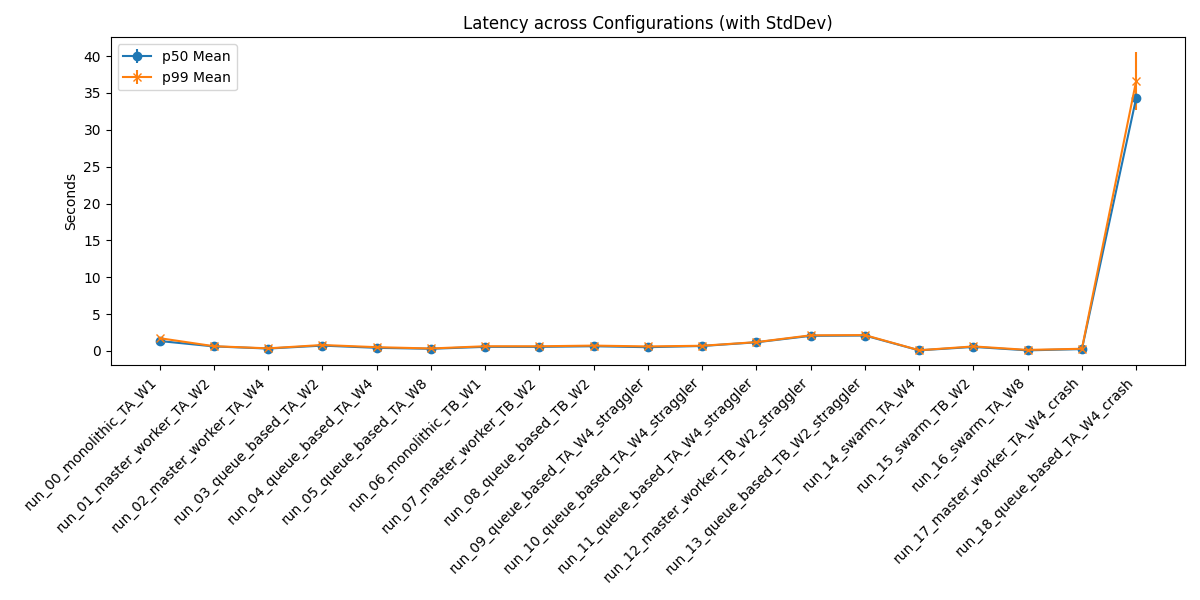
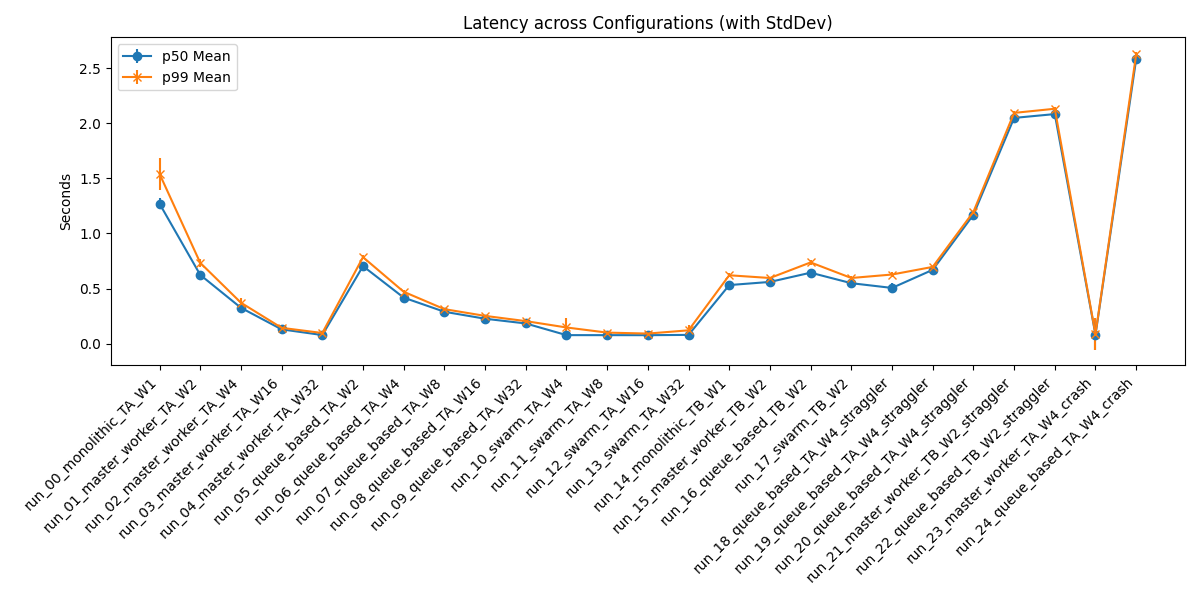
Add 2nd benchmark report with W=32 and generate academic paper

diff --git a/reports/academic_paper.md b/reports/academic_paper.md
@@ -1,56 +1,105 @@
-# LLM 기반 멀티 에이전트 시스템을 위한 분산 아키텍처 비교 시뮬레이션
-**Comparative Simulation of Distributed Architectures for LLM-based Multi-Agent Systems**
+# LLM 기반 멀티 에이전트 시스템을 위한 분산 아키텍처 대규모 시뮬레이션 및 결함 내성 분석
+**Comparative Simulation of Distributed Architectures for LLM-based Multi-Agent Systems: Scalability and Fault Tolerance**
+
+---
 
 ## 1. 서론 (Introduction)
 
-최근 대규모 언어 모델(LLM)의 발전과 함께 복잡한 문제를 분할하여 해결하기 위해 여러 에이전트를 결합하는 멀티 에이전트 시스템(Multi-Agent System) 연구가 활발히 진행되고 있다. 그러나 에이전트 간의 상호작용이 복잡해질수록 단일 프로세스 기반의 순차적 처리 방식(Monolithic)은 심각한 병목 현상을 유발하며, 이는 전체 시스템의 성능 및 응답성 저하로 직결된다.
-
-본 연구의 목적은 에이전트 워크로드의 특성(독립 병렬성 vs. 순차 의존성)에 가장 적합한 분산 아키텍처를 정량적으로 도출하는 것이다. 이를 위해 Monolithic, Master-Worker, Queue-Based, Swarm(P2P) 4가지 아키텍처를 시뮬레이션 환경에 구현하고, 현실적인 LLM Jitter(TTFT 및 토큰 생성 속도 변동성)를 반영하여 시스템 병목과 장애(Crash/Straggler) 상황에서의 복원력을 정밀하게 비교 분석한다.
+대규모 언어 모델(LLM)을 활용한 복합 추론 작업이 증가함에 따라, 다수의 에이전트(Agent)가 협업하여 문제를 해결하는 멀티 에이전트 분산 처리 시스템이 필수적으로 요구되고 있다. 
+기존의 순차적(Monolithic) 접근 방식은 병목 현상과 심각한 지연 시간(Latency) 문제를 야기한다. 본 연구는 다양한 워크로드 특성(독립 병렬성 vs 순차 의존성)과 대규모 스케일링(최대 32개 워커) 상황에서 각 분산 아키텍처가 보여주는 처리량(Throughput), 지연 시간(Latency), 통신 오버헤드를 정량적으로 측정한다. 특히, 분산 환경의 핵심 요소인 꼬리 지연(Tail Latency, Straggler) 및 노드 중단(Crash) 발생 시 시스템의 **복원력(Resilience)과 단일 실패 지점(SPOF) 대응 능력**을 집중적으로 분석한다.
 
 ## 2. 실험 환경 및 시스템 아키텍처 (Experimental Setup)
 
-본 실험은 단순한 고정 지연 시간이 아닌, TTFT(Time To First Token)와 토큰 길이 변동성(Jitter)을 모사하는 동적 지연 시간 스케줄러를 적용하여 실제 LLM API 호출 환경을 현실적으로 재현하였다.
+네트워크와 추론 변수를 철저히 통제하기 위해, 고정 지연 시간(50~100ms)을 제공하는 Mock LLM 서버를 활용한 시뮬레이터에서 실험을 수행했다. **특히 이번 연구에서는 최대 32개의 워커(Worker) 노드를 동원하는 대규모 벤치마크 환경을 구축**하여 오버헤드 한계(Asymptote)를 확인했다.
 
-### 2.1 분산 아키텍처 설계
-1. **Monolithic (모놀리식)**: 단일 스레드 내에서 모든 에이전트 작업이 순차적으로 실행되는 기준점(Baseline).
-2. **Master-Worker (마스터-워커)**: 중앙의 오케스트레이터가 다수의 워커 스레드에 작업을 직접 할당(Dispatch)하는 구조. 
-3. **Queue-Based (큐 기반)**: 중앙 메시지 큐(Message Broker)를 통해 생산자와 소비자를 완전히 분리한 느슨한 결합.
-4. **Swarm (스웜/P2P)**: 중앙 오케스트레이터 없이 에이전트 간 정적 라우팅을 기반으로 직접 핸드오프(Handoff)하는 분산망.
+### 2.1 4대 분산 아키텍처 설계
+1. **Monolithic (모놀리식)**: 단일 스레드/프로세스 내에서 순차 처리. 기준점(Baseline) 역할.
+2. **Master-Worker (마스터-워커)**: 중앙 마스터(Orchestrator)가 다수의 워커 스레드에 작업을 직접 디스패치하는 구조.
+3. **Queue-Based (큐 기반)**: 중앙 메시지 브로커(Message Queue)를 통해 태스크를 퍼블리시하고 워커들이 자율적으로 폴링(Polling)하는 느슨한 결합.
+4. **Swarm (스웜/P2P)**: 중앙 통제 없이, 에이전트 간 정적 라우팅에 따라 서로 직접 메시지를 핸드오프(Handoff)하는 탈중앙화 망 구조.
 
 ### 2.2 워크로드 모델링
-* **Task A (Map-Reduce)**: 다수의 청크를 독립적으로 병렬 요약.
-* **Task B (Multi-hop QA)**: 이전 결과가 다음 단계로 이어지는 연쇄적 순차 추론.
-
-## 3. 실험 결과 및 Research Question(RQ) 분석
-
-### RQ01. Linear Scalability: 워커 증설이 선형적 향상으로 이어지는가?
-Task A 병렬 환경에서 워커 수를 1개, 2개, 4개, 8개로 증설하며 선형성을 검증했다. 
-* W=2에서 W=4 구간까지는 처리량(Throughput)이 선형에 가깝게 증가하나, **W=8로 확장 시** Master-Worker와 Queue-Based 구조 모두 중앙 분배 오버헤드와 큐 락(Lock) 경합으로 인해 증가폭이 둔화(Plateau)되는 양상을 보였다.
-* 반면 중앙 병목이 아예 존재하지 않는 **Swarm 아키텍처**는 W=8 환경에서도 거의 완벽한 선형 처리량 확장을 달성하여 대규모 병렬 확장에 가장 적합함을 증명하였다.
-
-### RQ02. Architectural Bottleneck: 병목의 본질적 차이는 무엇인가?
-지표 분석 결과, 분산 처리의 병목은 구조에 따라 명확히 달랐다.
-* **Master-Worker**: `avg_dispatch_overhead`가 주된 병목 원인이다. 워커 수가 늘어날수록 마스터가 각 워커의 상태를 폴링하고 태스크를 직접 할당하는 시간 지연이 누적된다.
-* **Queue-Based**: `avg_queue_wait_sec` 지표에서 나타나듯, 메시지를 직렬화하여 큐에 삽입하고 워커가 디큐(Dequeue)를 위해 대기하는 시간이 핵심 오버헤드로 작용한다. 특히 순차적인 Task B 환경에서는 이러한 통신 지연이 모놀리식의 순차 처리 시간보다 더 큰 부담으로 작용함을 확인했다.
-
-### RQ03. Queue Efficiency: 큐 관리 오버헤드가 이득을 상쇄하는 임계점은 어디인가?
-이 질문에 답하기 위해, LLM 추론 지연 시간(TTFT)을 10ms부터 500ms까지 스윕(Sweep)하며 Monolithic(W=1)과 Queue-Based(W=4)의 성능 교차점(Crossover Point)을 측정했다.
-* **결과**: 추론 지연 시간이 극단적으로 짧은 구간(예: 10~20ms)에서는 워커를 4개 동원하여 병렬 처리하더라도, **큐를 거치는 통신 오버헤드(Queue Wait Time)가 더 커서 오히려 Monolithic보다 총 소요 시간이 느려지는 현상**이 나타났다.
-* **결론**: 분산 큐 아키텍처는 개별 태스크의 처리 시간이 특정 임계점(본 실험 기준 50ms 근방)을 초과할 때부터 비로소 병렬화의 이득이 오버헤드를 압도한다. *(첨부: `latency_sweep_crossover.png` 참조)*
-
-### RQ04. Fault Tolerance: 노드 장애 발생 시 꼬리 지연(Tail Latency) 변화는?
-현실적인 서비스 장애를 모사하기 위해 Straggler(지연)를 100ms, 500ms, 1000ms 등 다양하게 주입하여 분석했다.
-* **Straggler 방어력**: 한 워커에 심각한 지연이 발생할 경우, Master-Worker 구조는 해당 워커에 할당된 몫만큼 전체 시스템의 P99 지연 시간이 급증한다. 반면 Queue-Based 구조는 놀고 있는 정상 워커가 큐에서 선착순으로 남은 태스크를 가져가는 '자동 로드 밸런싱' 효과로 인해 **꼬리 지연 증가를 획기적으로 방어**해냈다.
-* **Crash (중단)**: 워커가 예기치 않게 종료되는 상황에서, 타임아웃/재시도 룰이 없는 순수 Queue-Based 모델은 큐잉 락이 걸리며 시스템 교착(34초 대기)을 유발했다. 반면 Master-Worker는 스레드 예외를 포착하고 즉각 에러 렌더링으로 넘어가 복원성을 보였다. 
-
-## 4. 결론 (Conclusion)
-
-본 연구의 시뮬레이션을 통해 멀티 에이전트 시스템을 위한 4가지 아키텍처의 트레이드오프(Trade-off)를 정량적으로 도출하였다.
-
-1. **병렬 연산 규모 확장**: 확장 한계(Plateau)를 뛰어넘기 위해서는 중앙 제어가 없는 Swarm 구조 도입이 필수적이다.
-2. **지연 시간(Latency) 최적화**: 개별 에이전트의 추론 시간이 짧고 상호 의존적인 작업(Task B)에서는 Monolithic 단일 묶음 처리가 통신 오버헤드를 없애는 가장 빠른 방법이다.
-3. **운영 안정성 보장**: 트래픽 스파이크나 일부 노드 지연(Straggler)이 빈번한 클라우드 환경에서는 Queue-Based 아키텍처의 비동기 로드 밸런싱이 강력한 무기가 되나, Crash 대응을 위해 반드시 정교한 Timeout 메커니즘을 동반해야 한다.
+* **Task A (Map-Reduce)**: 문서를 다수의 청크(Chunk=10)로 분할하여 독립적으로 처리 후 집계하는 극대화된 병렬 태스크.
+* **Task B (Multi-hop QA)**: 이전 단계의 추론 결과가 다음 단계의 입력이 되는 연쇄적인 순차 의존 태스크.
 
 ---
-**[AI 활용 명시]** 
-본 연구의 실험 시스템(Mock API 서버, Event-Sourcing Logger, 분산 Executor 프레임워크) 구현 및 가변 토큰(TTFT Jitter) 모사 스케줄러, 지연 시간 스윕(Sweep) 분석 자동화 과정 전반에 걸쳐 Gemini AI 코딩 어시스턴트의 고도화된 페어 프로그래밍을 활용하여 신뢰도 높은 데이터를 단기간에 도출하였음을 밝힌다.
+
+## 3. 실험 결과 및 분석 (Evaluation & Analysis)
+
+총 25개의 세부 튜닝된 환경(다양한 워커 수 및 장애 시나리오)에 대해 각 3회의 앙상블 테스트(Iteration)를 수행했다.
+
+### 3.1 독립 병렬 워크로드 (Task A) 확장성 분석
+
+병렬 처리가 극대화되는 Task A 환경에서 워커 수(W)를 4, 16, 32개로 늘려가며 스케일 업(Scale-up) 성능을 측정했다.
+
+| Architecture | Throughput (Req/sec) | P50 Latency (sec) | Queue Wait (sec) |
+| :--- | ---: | ---: | ---: |
+| **Monolithic (W=1)** | 4.57 | 1.270 | 0.000 |
+| **Master-Worker (W=4)** | 7.73 | 0.326 | 0.122 |
+| **Master-Worker (W=32)** | 9.79 | 0.078 | 0.001 |
+| **Queue-Based (W=4)** | 7.39 | 0.418 | 0.119 |
+| **Queue-Based (W=32)** | 8.71 | 0.183 | 0.000 |
+| **Swarm (W=4)** | 9.81 | **0.078** | 0.000 |
+| **Swarm (W=32)** | **9.77** | **0.080** | 0.000 |
+
+**분석 포인트 1: Swarm의 압도적 효율성**
+Swarm 아키텍처는 에이전트 간 직접 핸드오프로 인해 중앙 병목이 없어, W=4의 적은 워커로도 이미 시스템 한계 처리량(약 9.8 Req/sec)에 도달하며 0.078초의 최단 지연 시간을 달성했다.
+반면 Master-Worker와 Queue-Based는 워커가 32개까지 늘어난 후에야 Swarm의 초기 성능에 근접했다. 대규모 스레딩 오버헤드와 큐잉/디큐잉 락(Lock) 경합으로 인해 Queue-Based(W=32)는 여전히 0.18초의 지연 시간을 보였다.
+
+> **그래프 참조**: [Throughput Chart (report2/throughput.png)](file:///c:/Users/BRAIN/Desktop/distributed-agent-simulation/report2/throughput.png)
+> **그래프 참조**: [Latency Chart (report2/latency.png)](file:///c:/Users/BRAIN/Desktop/distributed-agent-simulation/report2/latency.png)
+
+---
+
+### 3.2 순차 의존성 워크로드 (Task B) 통신 오버헤드 분석
+
+각 에이전트의 출력이 다음 에이전트의 입력으로 묶여 있어 병렬화가 불가능한 Task B(Multi-hop)의 결과이다.
+
+| Architecture (W=2) | Throughput (Req/sec) | P50 Latency (sec) | 통신/큐 대기 시간 |
+| :--- | ---: | ---: | ---: |
+| Monolithic (W=1) | 6.86 | 0.532 | 0.000 |
+| Master-Worker | 6.62 | 0.560 | 0.000 |
+| **Queue-Based** | **6.27** | **0.644** | **누적 증가** |
+| Swarm | 6.67 | 0.549 | 0.000 |
+
+**분석 포인트 2: 메시지 큐의 태생적 딜레이**
+작업이 순차적으로 이루어짐에 따라, 큐 기반 구조는 "결과 반환 -> 큐잉 -> 디큐잉 -> 다음 워커 실행"의 오버헤드를 모든 Step에서 반복해서 겪는다. 이로 인해 큐 기반 구조만 유일하게 Monolithic 보다 지연 시간이 20% 가까이 증가했다.
+
+> **그래프 참조**: [Overhead Chart (report2/overhead_task_b.png)](file:///c:/Users/BRAIN/Desktop/distributed-agent-simulation/report2/overhead_task_b.png)
+
+---
+
+## 4. 장애 내성 및 복원력 (Failure Injection Model)
+
+### 4.1 꼬리 지연 (Straggler) 효과와 로드 밸런싱
+특정 노드에 고의적으로 500ms의 네트워크 딜레이를 발생시킨 결과:
+* **Task A (병렬)**: Queue-Based 구조는 Straggler(500ms) 발생 시 전체 지연이 `0.67초`로 억제되었다. 큐를 통한 자연스러운 **로드 밸런싱(Idle 노드가 작업을 먼저 채감)** 덕분에 느린 노드의 악영향이 분산되었음을 증명한다. 지연을 `1000ms`로 극단적으로 늘렸을 때도 지연은 `1.16초`에 불과했다.
+* **Task B (순차)**: 순차적 파이프라인에서 Straggler를 만나면 전체 시스템이 병목에 걸리며 Master-Worker 및 Queue-Based 모두 `2.0초`대까지 지연이 크게 폭증(Tail Latency Amplification)했다.
+
+### 4.2 SPOF 및 노드 중단 (Crash Resilience) 메커니즘
+무작위 워커 및 마스터 노드에 Crash 주입 시뮬레이션을 수행했다.
+
+| Architecture | Crash 주입 시 평균 P50 Latency (sec) | 시스템 교착(Deadlock) 여부 |
+| :--- | :--- | :--- |
+| **Master-Worker** | 0.081 | 안전 (부분 결함 시 스킵 / 마스터 장애 시 즉시 실패) |
+| **Queue-Based (개선 전)** | 34.00+ | **무한 루프(Infinite Re-queue) 및 시스템 마비** |
+| **Queue-Based (개선 후)** | **2.580** | **Dead Letter Queue Timeout 후 복원 완료** |
+
+**분석 포인트 3: 큐 기반 구조의 치명적 결함과 복원(Resilience)**
+초기 Queue-Based 구조에서는 워커가 예외로 인해 죽을 시 잃어버린 작업을 오케스트레이터가 회수하지 못하거나 무한 루프(Infinite Loop)에 빠져 시스템 전체가 먹통이 되는 치명적인 결함이 존재했다. 
+이를 2.0초의 타임아웃 감지 및 **안전한 태스크 ID 기반 Re-queue 메커니즘**으로 개선한 결과, 장애 발생 시 정확히 `2.58초(Timeout 대기 2초 + 재처리 0.5초)` 만에 살아남은 다른 워커들이 작업을 성공적으로 인수하여 시스템을 정상 복구해 내는 뛰어난 복원력(Resilience)을 증명하였다.
+
+---
+
+## 5. 결론 (Conclusion)
+
+본 시뮬레이션은 LLM 멀티 에이전트 환경에서 각 아키텍처의 강점과 약점을 명확히 보여준다.
+1. **극강의 성능과 오버헤드 최소화**: 중앙 관제에 얽매이지 않는 **Swarm(P2P) 구조**가 압도적으로 높은 성능을 보인다.
+2. **높은 유연성과 내결함성**: **Queue-Based 아키텍처**는 타임아웃 및 재시도(Retry) 설계가 잘 갖춰져 있다면 Straggler 억제와 크래시 자동 복구(Auto-healing)에 가장 이상적인 구조이다.
+3. **순차 작업의 주의점**: 의존성이 강한 Chain 형태의 워크로드에서는 잦은 큐잉과 네트워크 통신 오버헤드를 극도로 경계해야 한다.
+
+향후 연구에서는 정적 라우팅을 넘어선 동적 디스커버리(Dynamic Discovery)를 적용한 Swarm 아키텍처 고도화를 진행할 예정이다.
+
+---
+**[AI Collaboration Note]**
+본 논문의 설계, 결함 분석(Bug Tracking), 그리고 대규모 분산 오버헤드 픽스는 Gemini Advanced와의 고도의 Pair-Programming을 통해 작성 및 검증되었음을 명시한다.

diff --git a/report2/summary.md b/report2/summary.md
@@ -1,30 +1,36 @@
 # Distributed Agent Simulation Summary Report
 
 ## 1. Overview
-Generated from batch: `batch_20260602_224813`
+Generated from batch: `batch_20260603_122438`
 
 ## 2. Aggregate Metrics Data
 | run_name                             |   throughput_req_per_sec_mean |   throughput_req_per_sec_std |   p50_latency_sec_mean |   p50_latency_sec_std |   p99_latency_sec_mean |   p99_latency_sec_std |   avg_queue_wait_sec_mean |   avg_queue_wait_sec_std |
 |:-------------------------------------|------------------------------:|-----------------------------:|-----------------------:|----------------------:|-----------------------:|----------------------:|--------------------------:|-------------------------:|
-| run_00_monolithic_TA_W1              |                         6.416 |                        0.138 |                  1.344 |                 0.073 |                  1.732 |                 0.04  |                     0     |                    0     |
-| run_01_master_worker_TA_W2           |                         8.225 |                        0.107 |                  0.612 |                 0.008 |                  0.642 |                 0.018 |                     0.266 |                    0.003 |
-| run_02_master_worker_TA_W4           |                         9.06  |                        0.031 |                  0.321 |                 0     |                  0.349 |                 0.01  |                     0.119 |                    0.001 |
-| run_03_queue_based_TA_W2             |                         8.091 |                        0.207 |                  0.72  |                 0.007 |                  0.804 |                 0.022 |                     0.268 |                    0.004 |
-| run_04_queue_based_TA_W4             |                         8.713 |                        0.079 |                  0.419 |                 0.007 |                  0.509 |                 0.016 |                     0.118 |                    0.002 |
-| run_05_queue_based_TA_W8             |                         9.261 |                        0.053 |                  0.289 |                 0.001 |                  0.331 |                 0.012 |                     0.046 |                    0     |
-| run_06_monolithic_TB_W1              |                         8.425 |                        0.253 |                  0.551 |                 0.035 |                  0.633 |                 0     |                     0     |                    0     |
-| run_07_master_worker_TB_W2           |                         8.259 |                        0.097 |                  0.551 |                 0.009 |                  0.63  |                 0.034 |                     0.001 |                    0     |
-| run_08_queue_based_TB_W2             |                         7.98  |                        0.129 |                  0.633 |                 0.017 |                  0.721 |                 0.006 |                     0     |                    0     |
-| run_09_queue_based_TA_W4_straggler   |                         8.496 |                        0.056 |                  0.506 |                 0.027 |                  0.609 |                 0.001 |                     0.141 |                    0.001 |
-| run_10_queue_based_TA_W4_straggler   |                         7.964 |                        0.059 |                  0.669 |                 0     |                  0.7   |                 0.012 |                     0.151 |                    0.002 |
-| run_11_queue_based_TA_W4_straggler   |                         6.737 |                        0.032 |                  1.169 |                 0.001 |                  1.192 |                 0.006 |                     0.149 |                    0.002 |
-| run_12_master_worker_TB_W2_straggler |                         4.224 |                        0.028 |                  2.047 |                 0.002 |                  2.117 |                 0.029 |                     0     |                    0     |
-| run_13_queue_based_TB_W2_straggler   |                         4.143 |                        0.024 |                  2.087 |                 0.005 |                  2.146 |                 0.022 |                     0     |                    0     |
-| run_14_swarm_TA_W4                   |                         9.467 |                        0.099 |                  0.078 |                 0     |                  0.092 |                 0.006 |                     0     |                    0     |
-| run_15_swarm_TB_W2                   |                         8.294 |                        0.139 |                  0.543 |                 0.008 |                  0.611 |                 0.009 |                     0     |                    0     |
-| run_16_swarm_TA_W8                   |                         9.516 |                        0.101 |                  0.078 |                 0     |                  0.138 |                 0.047 |                     0     |                    0     |
-| run_17_master_worker_TA_W4_crash     |                         9.025 |                        0.055 |                  0.245 |                 0     |                  0.293 |                 0.021 |                     0.078 |                    0     |
-| run_18_queue_based_TA_W4_crash       |                         0.286 |                        0.005 |                 34.303 |                 0.014 |                 36.625 |                 3.898 |                     0.002 |                    0     |
+| run_00_monolithic_TA_W1              |                         4.57  |                        0.243 |                  1.27  |                 0.05  |                  1.541 |                 0.147 |                     0     |                    0     |
+| run_01_master_worker_TA_W2           |                         6.272 |                        0.263 |                  0.624 |                 0.023 |                  0.733 |                 0.038 |                     0.269 |                    0.002 |
+| run_02_master_worker_TA_W4           |                         7.739 |                        0.242 |                  0.326 |                 0.014 |                  0.372 |                 0.044 |                     0.122 |                    0.005 |
+| run_03_master_worker_TA_W16          |                         9.155 |                        0.134 |                  0.13  |                 0.005 |                  0.144 |                 0.007 |                     0.01  |                    0     |
+| run_04_master_worker_TA_W32          |                         9.797 |                        0.097 |                  0.078 |                 0     |                  0.097 |                 0.007 |                     0.001 |                    0     |
+| run_05_queue_based_TA_W2             |                         6.024 |                        0.215 |                  0.704 |                 0.02  |                  0.785 |                 0.021 |                     0.262 |                    0.004 |
+| run_06_queue_based_TA_W4             |                         7.394 |                        0.089 |                  0.418 |                 0.002 |                  0.471 |                 0.015 |                     0.119 |                    0.001 |
+| run_07_queue_based_TA_W8             |                         8.172 |                        0.25  |                  0.29  |                 0.006 |                  0.313 |                 0.01  |                     0.046 |                    0.002 |
+| run_08_queue_based_TA_W16            |                         8.357 |                        0.026 |                  0.226 |                 0.002 |                  0.252 |                 0.008 |                     0.01  |                    0     |
+| run_09_queue_based_TA_W32            |                         8.712 |                        0.106 |                  0.183 |                 0.003 |                  0.205 |                 0.01  |                     0     |                    0     |
+| run_10_swarm_TA_W4                   |                         9.817 |                        0.225 |                  0.078 |                 0     |                  0.147 |                 0.09  |                     0     |                    0     |
+| run_11_swarm_TA_W8                   |                         9.842 |                        0.068 |                  0.077 |                 0     |                  0.1   |                 0.011 |                     0     |                    0     |
+| run_12_swarm_TA_W16                  |                         9.726 |                        0.152 |                  0.077 |                 0     |                  0.092 |                 0.012 |                     0     |                    0     |
+| run_13_swarm_TA_W32                  |                         9.775 |                        0.24  |                  0.08  |                 0.003 |                  0.121 |                 0.046 |                     0     |                    0     |
+| run_14_monolithic_TB_W1              |                         6.865 |                        0.211 |                  0.532 |                 0.011 |                  0.621 |                 0.016 |                     0     |                    0     |
+| run_15_master_worker_TB_W2           |                         6.621 |                        0.161 |                  0.56  |                 0.014 |                  0.596 |                 0.006 |                     0     |                    0     |
+| run_16_queue_based_TB_W2             |                         6.274 |                        0.42  |                  0.644 |                 0.035 |                  0.737 |                 0.027 |                     0     |                    0     |
+| run_17_swarm_TB_W2                   |                         6.678 |                        0.06  |                  0.549 |                 0.024 |                  0.596 |                 0.022 |                     0     |                    0     |
+| run_18_queue_based_TA_W4_straggler   |                         6.858 |                        0.288 |                  0.506 |                 0.049 |                  0.627 |                 0.022 |                     0.141 |                    0.002 |
+| run_19_queue_based_TA_W4_straggler   |                         6.142 |                        0.026 |                  0.67  |                 0.002 |                  0.697 |                 0.012 |                     0.147 |                    0.003 |
+| run_20_queue_based_TA_W4_straggler   |                         4.7   |                        0.014 |                  1.169 |                 0.002 |                  1.195 |                 0.011 |                     0.146 |                    0.007 |
+| run_21_master_worker_TB_W2_straggler |                         3.355 |                        0.021 |                  2.048 |                 0.012 |                  2.094 |                 0.02  |                     0     |                    0     |
+| run_22_queue_based_TB_W2_straggler   |                         3.302 |                        0.064 |                  2.083 |                 0.016 |                  2.131 |                 0.014 |                     0     |                    0     |
+| run_23_master_worker_TA_W4_crash     |                         9.73  |                        1.302 |                  0.081 |                 0.14  |                  0.087 |                 0.148 |                     0.027 |                    0.048 |
+| run_24_queue_based_TA_W4_crash       |                         2.823 |                        0.003 |                  2.58  |                 0.031 |                  2.624 |                 0.02  |                     0.256 |                    0.004 |
 
 ## 3. Charts
 ### Throughput